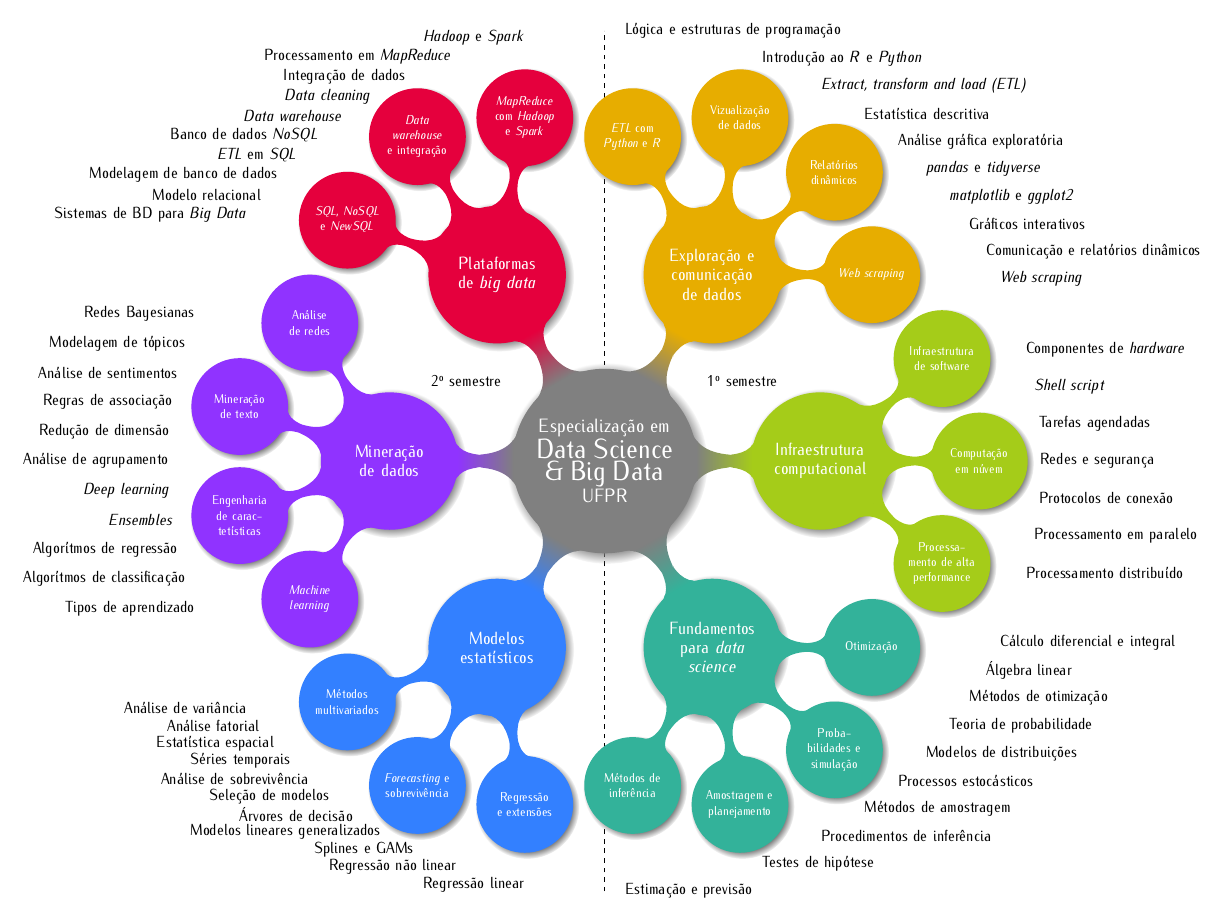
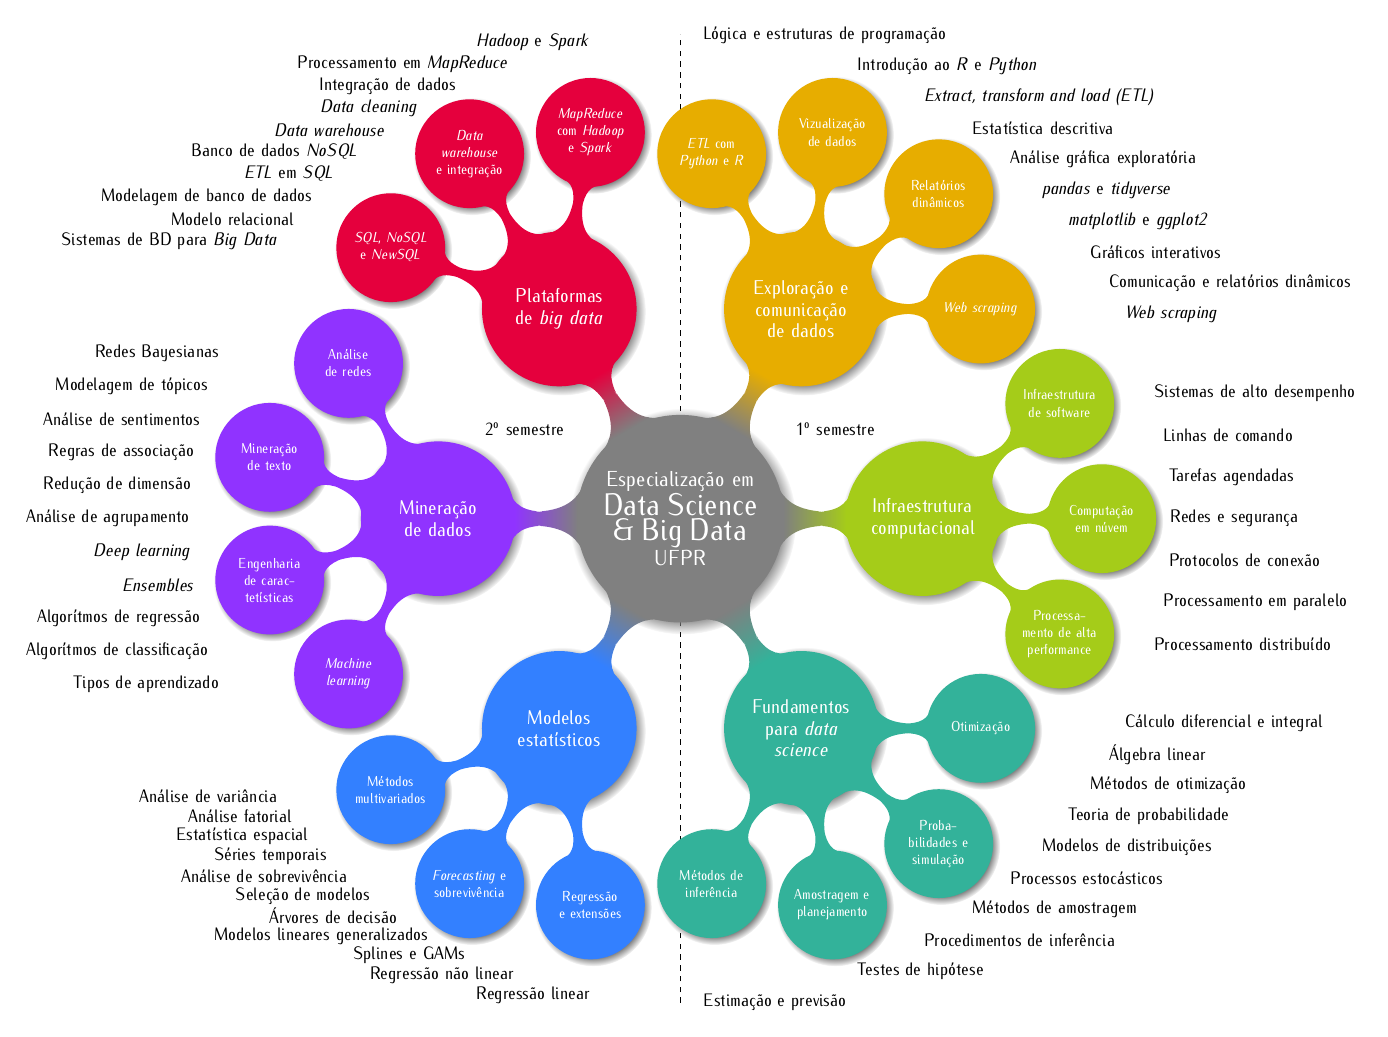
Updates mindmap about DSBD.

diff --git a/README.md b/README.md
@@ -7175,7 +7175,7 @@ in on <http://www.leg.ufpr.br/~walmes/tikz/> (updated less frequently).
     node [concept] {Modelos estat{\'\i}sticos} [clockwise from = -80]
     \ifshow
     child {
-%       node [concept] {Regress{\~ a}o linear, nÃÂ£o linear e extens{\~o}es}
+%       node [concept] {Regress{\~ a}o linear, nÃÂÃÂ£o linear e extens{\~o}es}
       node [concept] {Regress{\~ a}o e extens{\~o}es}
     }
     child {
@@ -7185,8 +7185,8 @@ in on <http://www.leg.ufpr.br/~walmes/tikz/> (updated less frequently).
     child {
 %       node [concept] {Modelos preditivos e t{\' o}picos avan{\c c}ados}
       node [concept] {M{\' e}todos multivariados}
-      % Modelo nÃÂ£o lineares ou smooth.
-      % MÃÂ©todos multivariados.
+      % Modelo nÃÂÃÂ£o lineares ou smooth.
+      % MÃÂÃÂ©todos multivariados.
     }
     \fi
   }
@@ -7260,8 +7260,8 @@ in on <http://www.leg.ufpr.br/~walmes/tikz/> (updated less frequently).
 \node at (33.421:27em) [anchor = west] {Gr{\'a}ficos interativos};
 \node at (29.124:27em) [anchor = west] {Comunica{\c c}{\~a}o e relat{\'o}rios din{\^a}micos};
 \node at (25.000:27em) [anchor = west] {\textit{Web scraping}};
-\node at (15.000:27em) [anchor = west] {Componentes de \textit{hardware}};
-\node at (9.936:27em) [anchor = west] {\textit{Shell script}};
+\node at (15.000:27em) [anchor = west] {Sistemas de alto desempenho};
+\node at (9.936:27em) [anchor = west] {Linhas de comando};
 \node at (4.949:27em) [anchor = west] {Tarefas agendadas};
 \node at (0.000:27em) [anchor = west] {Redes e seguran{\c c}a};
 \node at (-4.949:27em) [anchor = west] {Protocolos de conex{\~a}o};
@@ -7309,6 +7309,7 @@ in on <http://www.leg.ufpr.br/~walmes/tikz/> (updated less frequently).
 \node at (138.321:27em) [anchor = east] {Modelagem de banco de dados};
 \node at (141.737:27em) [anchor = east] {Modelo relacional};
 \node at (145.000:27em) [anchor = east] {Sistemas de BD para \textit{Big Data}};
+
 \end{tikzpicture}
 ```
 ****
